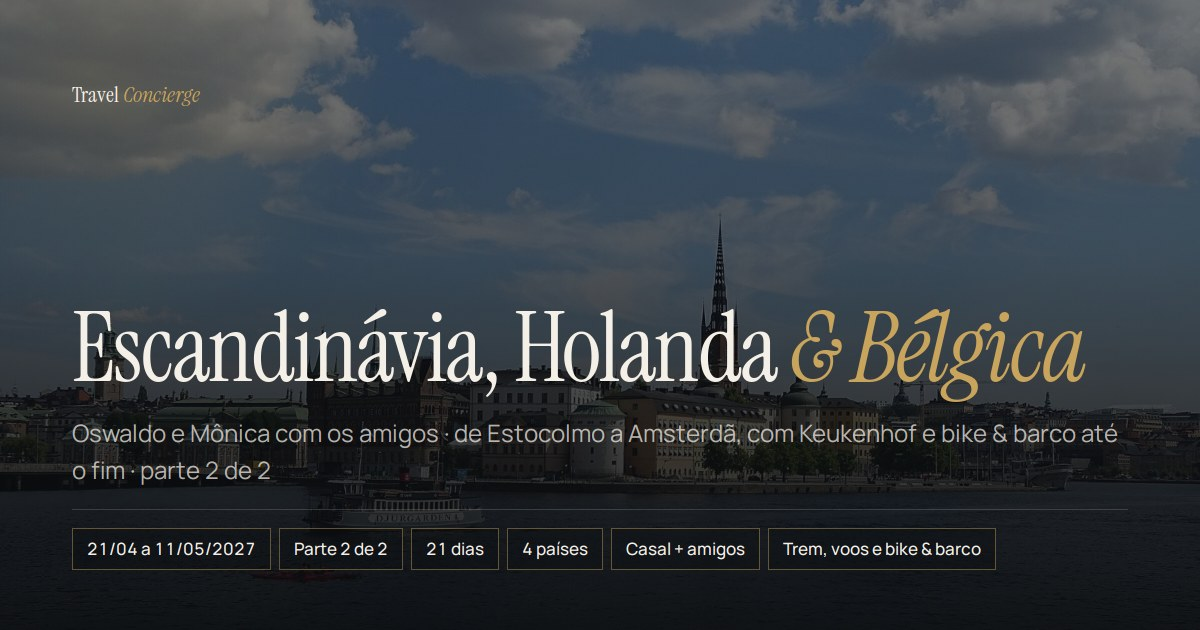
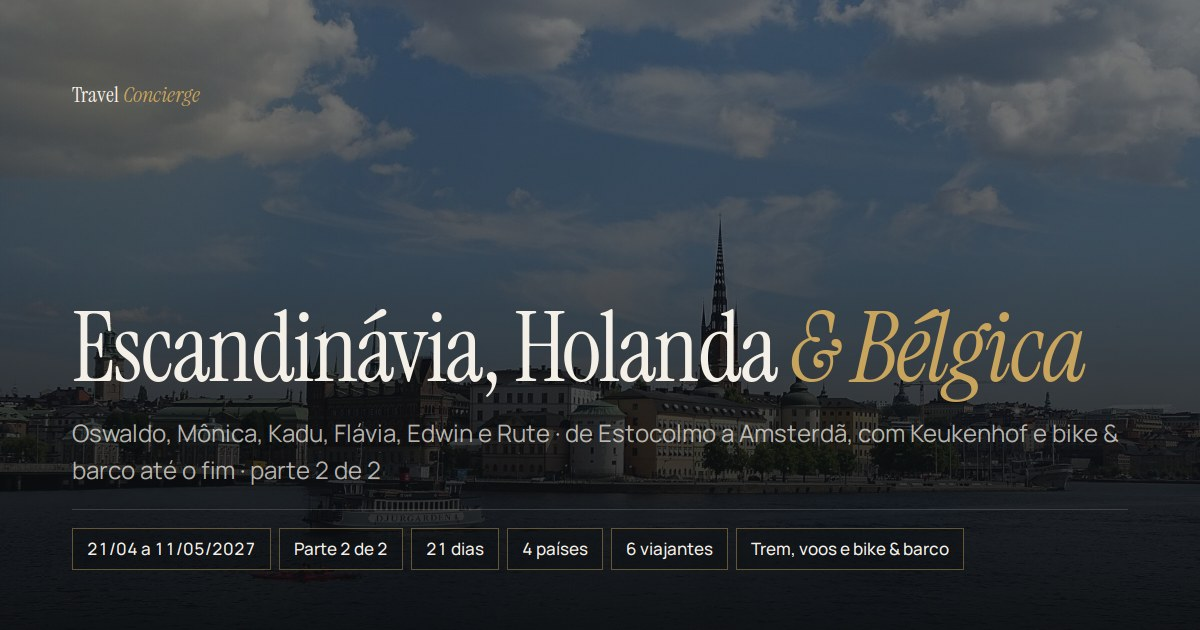
roteiro: capa de preview (escandinavia-holanda-belgica-2027 europa-central-escandinavia-2027 )

Changed region(s): [[0.0617, 0.6635, 0.925, 0.7841], [0.5242, 0.8444, 0.8325, 0.9048]]

diff --git a/escandinavia-holanda-belgica-2027/index.html b/escandinavia-holanda-belgica-2027/index.html
@@ -12,14 +12,14 @@
 <meta property="og:title" content="Escandinávia, Holanda &amp; Bélgica"/>
 <meta property="og:description" content="Oswaldo, Mônica, Kadu, Flávia, Edwin e Rute · de Estocolmo a Amsterdã, com Keukenhof e bike &amp; barco até o fim · parte 2 de 2"/>
 <meta property="og:url" content="https://roteiros.clubedoviajante.com.br/escandinavia-holanda-belgica-2027/"/>
-<meta property="og:image" content="https://roteiros.clubedoviajante.com.br/escandinavia-holanda-belgica-2027/capa.jpg?v=1794422584"/>
-<meta property="og:image:secure_url" content="https://roteiros.clubedoviajante.com.br/escandinavia-holanda-belgica-2027/capa.jpg?v=1794422584"/>
+<meta property="og:image" content="https://roteiros.clubedoviajante.com.br/escandinavia-holanda-belgica-2027/capa.jpg?v=1794422720"/>
+<meta property="og:image:secure_url" content="https://roteiros.clubedoviajante.com.br/escandinavia-holanda-belgica-2027/capa.jpg?v=1794422720"/>
 <meta property="og:image:type" content="image/jpeg"/>
 <meta property="og:image:width" content="1200"/>
 <meta property="og:image:height" content="630"/>
 <meta property="og:image:alt" content="Escandinávia, Holanda &amp; Bélgica"/>
 <meta name="twitter:card" content="summary_large_image"/>
-<meta name="twitter:image" content="https://roteiros.clubedoviajante.com.br/escandinavia-holanda-belgica-2027/capa.jpg?v=1794422584"/>
+<meta name="twitter:image" content="https://roteiros.clubedoviajante.com.br/escandinavia-holanda-belgica-2027/capa.jpg?v=1794422720"/>
 <meta name="twitter:title" content="Escandinávia, Holanda &amp; Bélgica"/>
 <meta name="twitter:description" content="Oswaldo, Mônica, Kadu, Flávia, Edwin e Rute · de Estocolmo a Amsterdã, com Keukenhof e bike &amp; barco até o fim · parte 2 de 2"/>
 <meta name="claude:viewport-fit-sides" content="cover">

diff --git a/europa-central-escandinavia-2027/index.html b/europa-central-escandinavia-2027/index.html
@@ -12,14 +12,14 @@
 <meta property="og:title" content="Europa Central"/>
 <meta property="og:description" content="Oswaldo e Mônica · de Zagreb a Praga · parte 1 de 2"/>
 <meta property="og:url" content="https://roteiros.clubedoviajante.com.br/europa-central-escandinavia-2027/"/>
-<meta property="og:image" content="https://roteiros.clubedoviajante.com.br/europa-central-escandinavia-2027/capa.jpg?v=1794422586"/>
-<meta property="og:image:secure_url" content="https://roteiros.clubedoviajante.com.br/europa-central-escandinavia-2027/capa.jpg?v=1794422586"/>
+<meta property="og:image" content="https://roteiros.clubedoviajante.com.br/europa-central-escandinavia-2027/capa.jpg?v=1794422722"/>
+<meta property="og:image:secure_url" content="https://roteiros.clubedoviajante.com.br/europa-central-escandinavia-2027/capa.jpg?v=1794422722"/>
 <meta property="og:image:type" content="image/jpeg"/>
 <meta property="og:image:width" content="1200"/>
 <meta property="og:image:height" content="630"/>
 <meta property="og:image:alt" content="Europa Central"/>
 <meta name="twitter:card" content="summary_large_image"/>
-<meta name="twitter:image" content="https://roteiros.clubedoviajante.com.br/europa-central-escandinavia-2027/capa.jpg?v=1794422586"/>
+<meta name="twitter:image" content="https://roteiros.clubedoviajante.com.br/europa-central-escandinavia-2027/capa.jpg?v=1794422722"/>
 <meta name="twitter:title" content="Europa Central"/>
 <meta name="twitter:description" content="Oswaldo e Mônica · de Zagreb a Praga · parte 1 de 2"/>
 <meta name="claude:viewport-fit-sides" content="cover">
